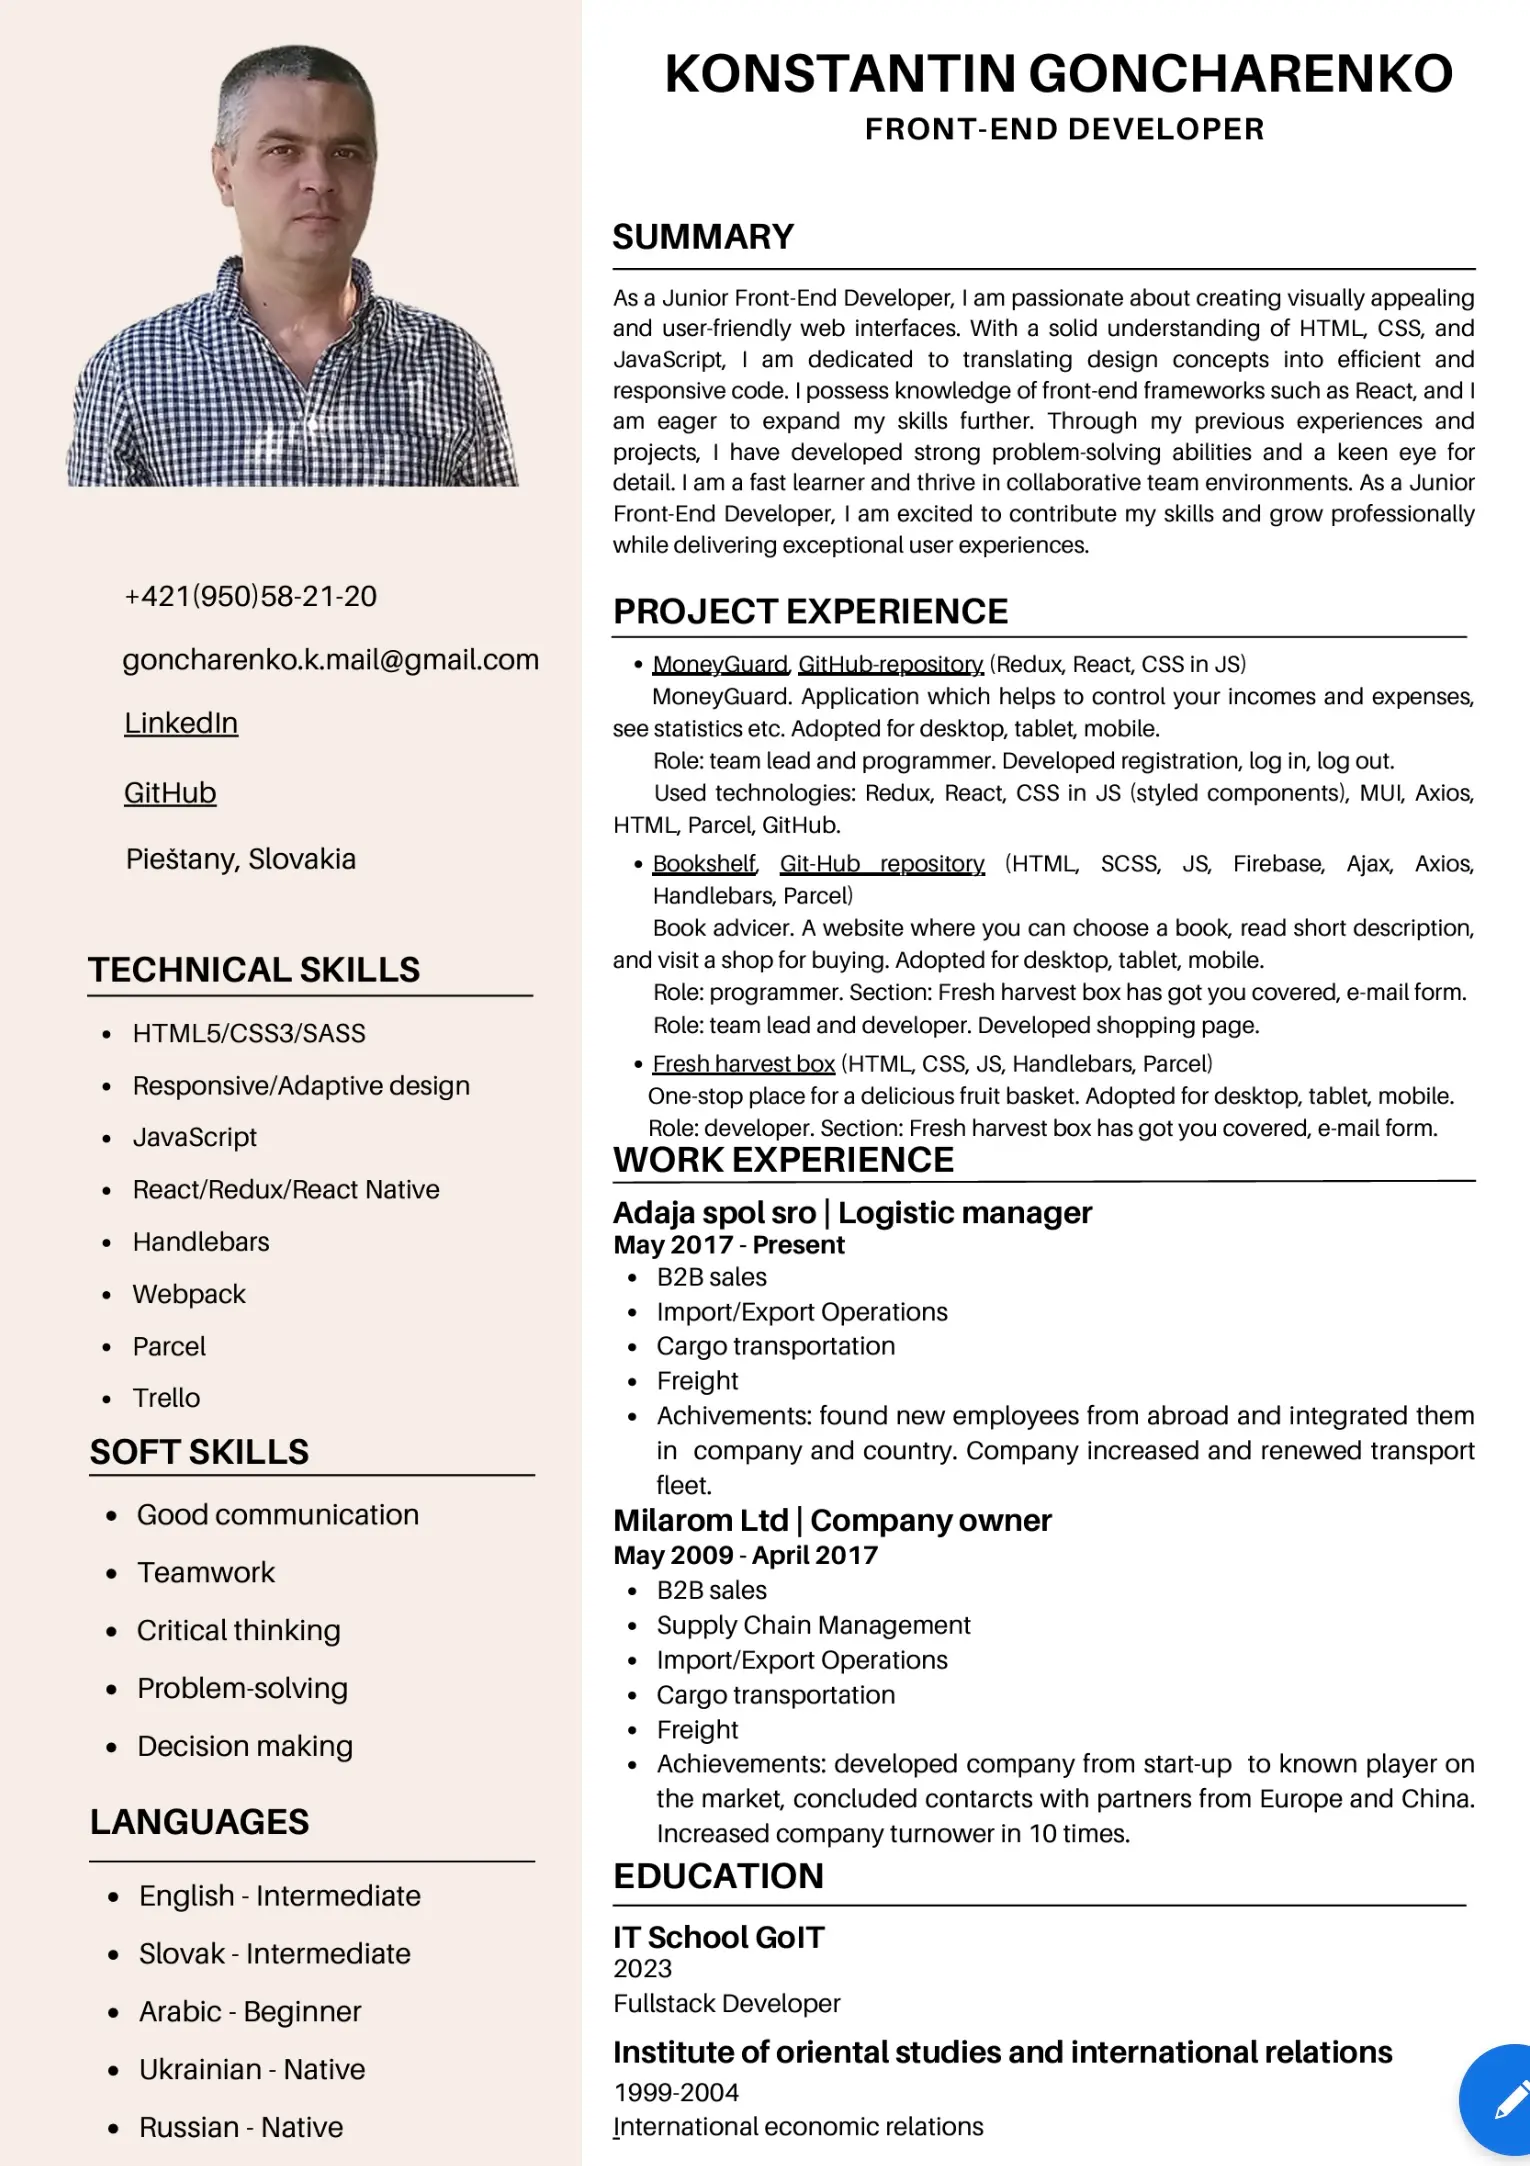
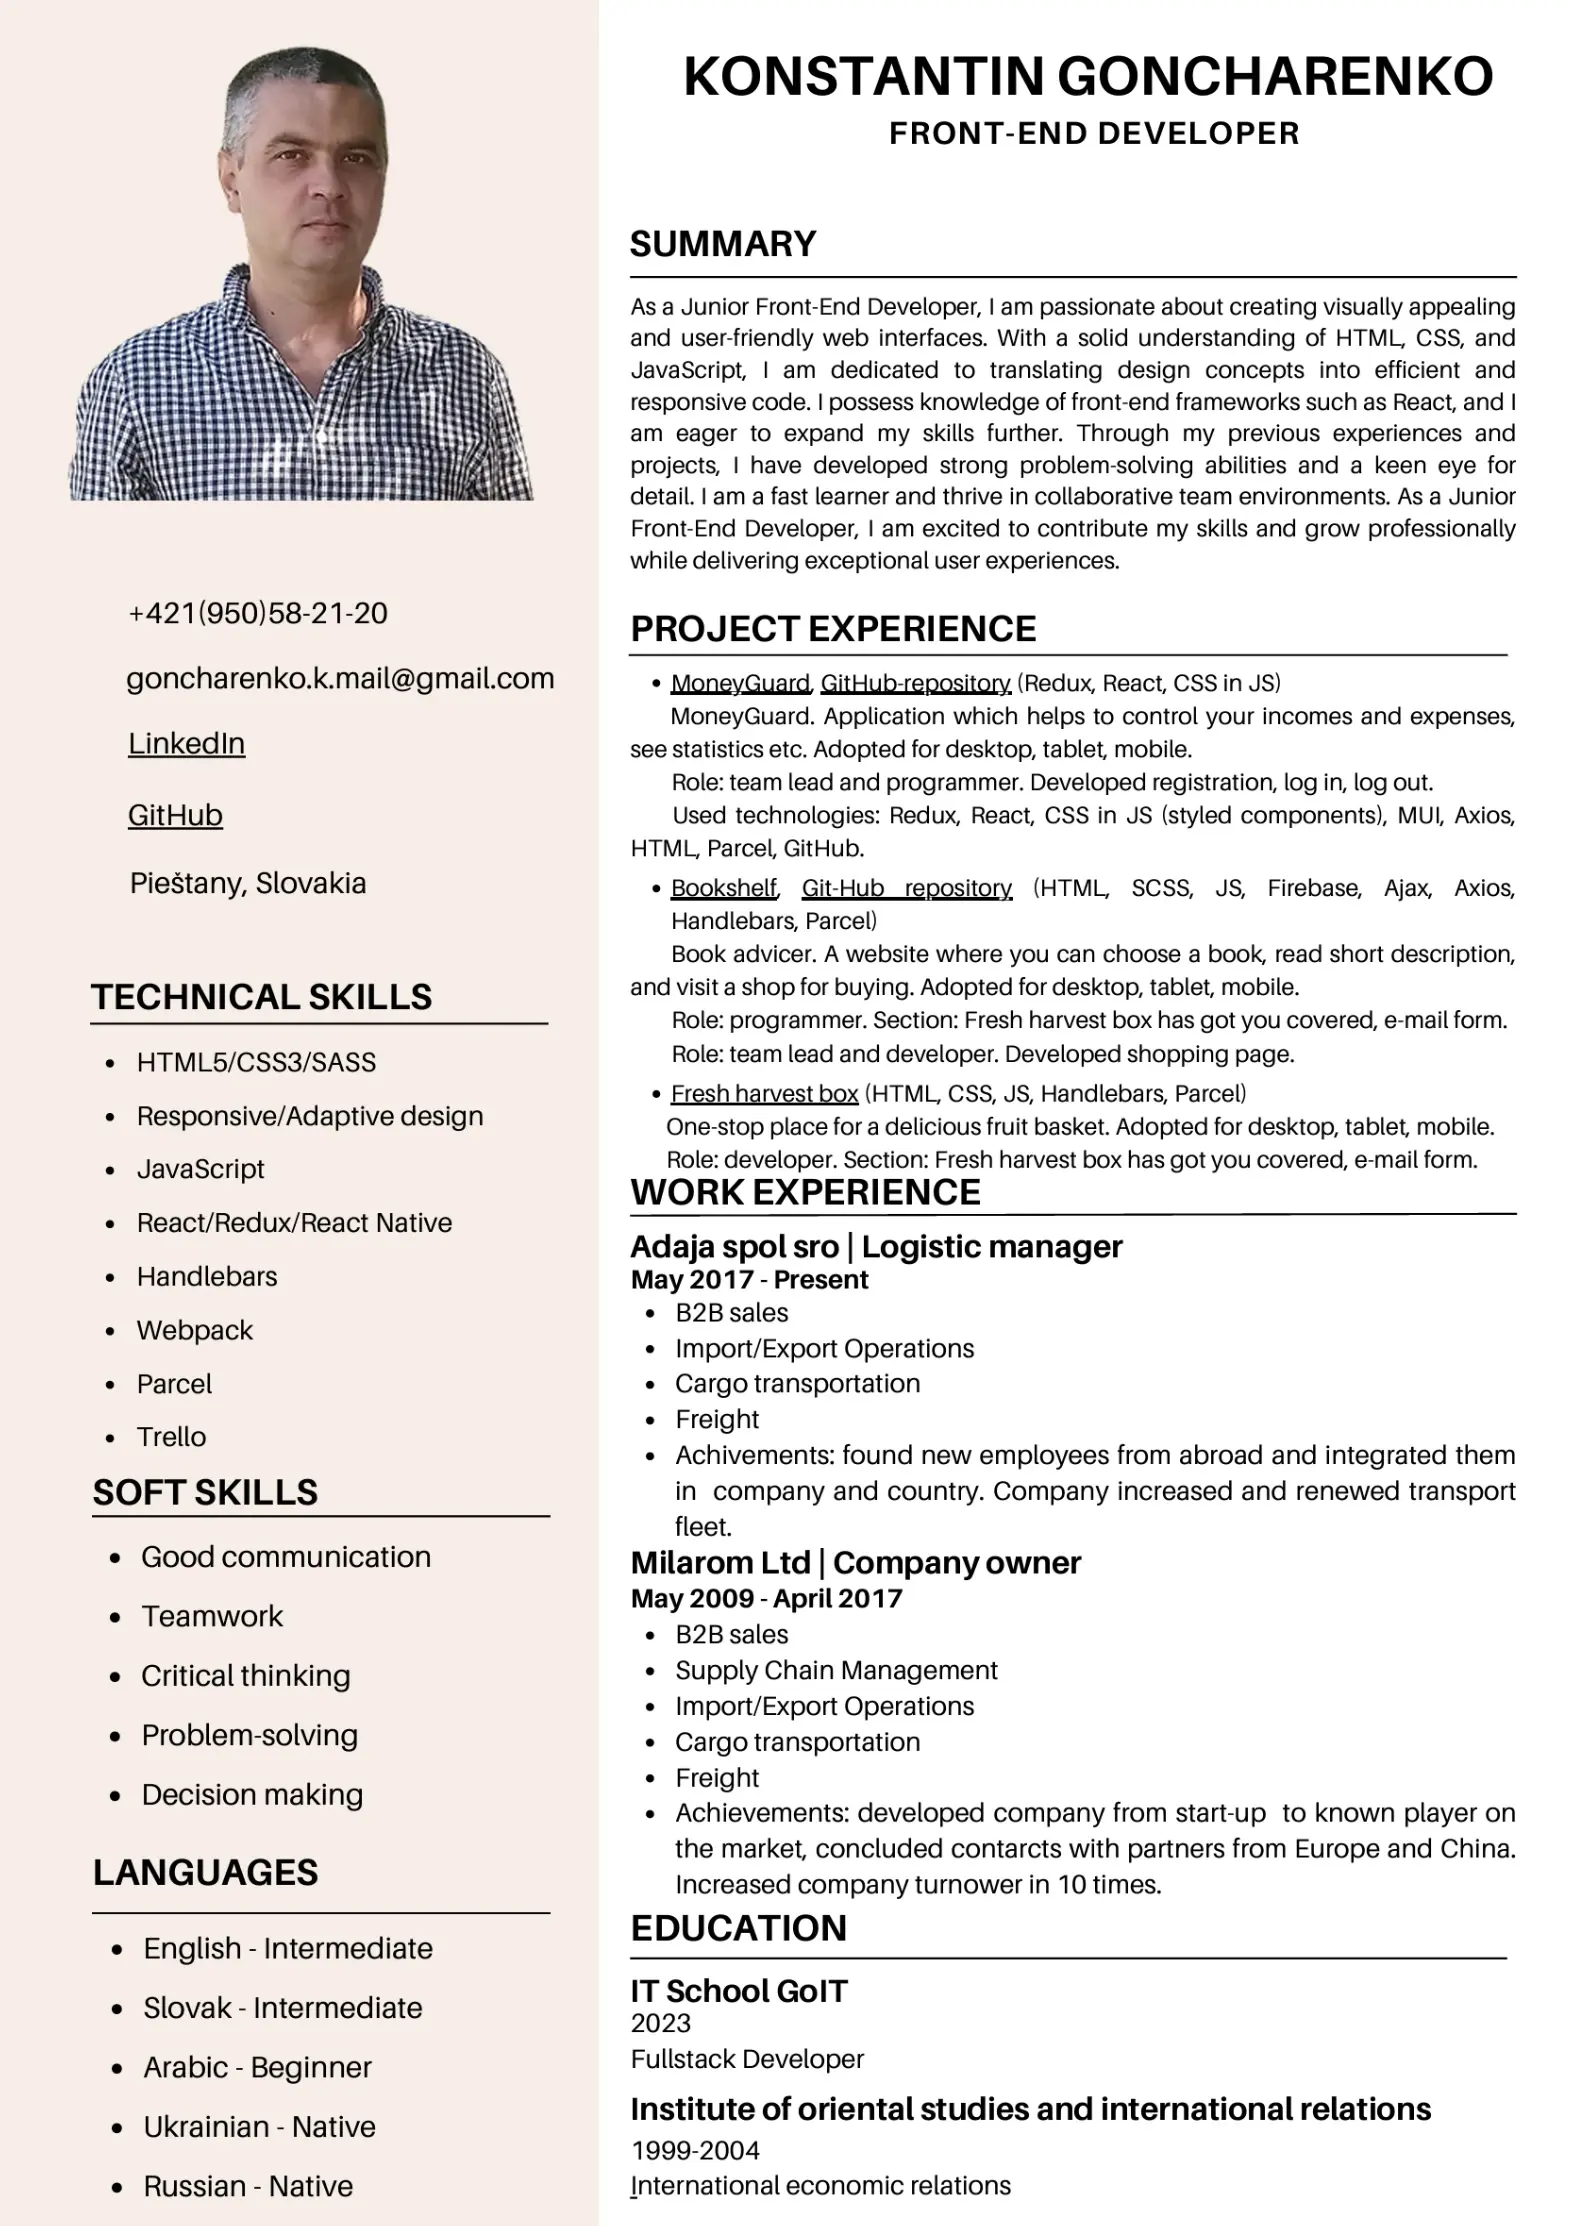
chenged modal fotos for docs

diff --git a/src/components/helpers/docs.jsx b/src/components/helpers/docs.jsx
@@ -1,13 +1,9 @@
-// import cvImg from "../../images/docsfoto/cvW.webp";
 import cvImg from "../../images/docsfoto/cv-photoW.webp";
 import cvPDF from "./docs/Konstantin Goncharenko_CV.pdf";
 import FSCertificateImg from '../../images/docsfoto/FSCertificateW.webp'
 import FSCertificatePDF from './docs/Full-Stack certificate.pdf'
-// import FScourseImg1 from '../../images/docsfoto/FScourse1W.webp'
 import FScourseImg1 from '../../images/docsfoto/foto-FScourse1W.webp'
-// import FScourseImg2 from '../../images/docsfoto/FScourse2W.webp'
 import FScourseImg2 from '../../images/docsfoto/foto-FScourse2W.webp'
-// import FScourseImg3 from '../../images/docsfoto/FScourse3W.webp'
 import FScourseImg3 from '../../images/docsfoto/foto-FScourse3W.webp'
 import FScoursePDF from './docs/Full-Stack course.pdf'
 
